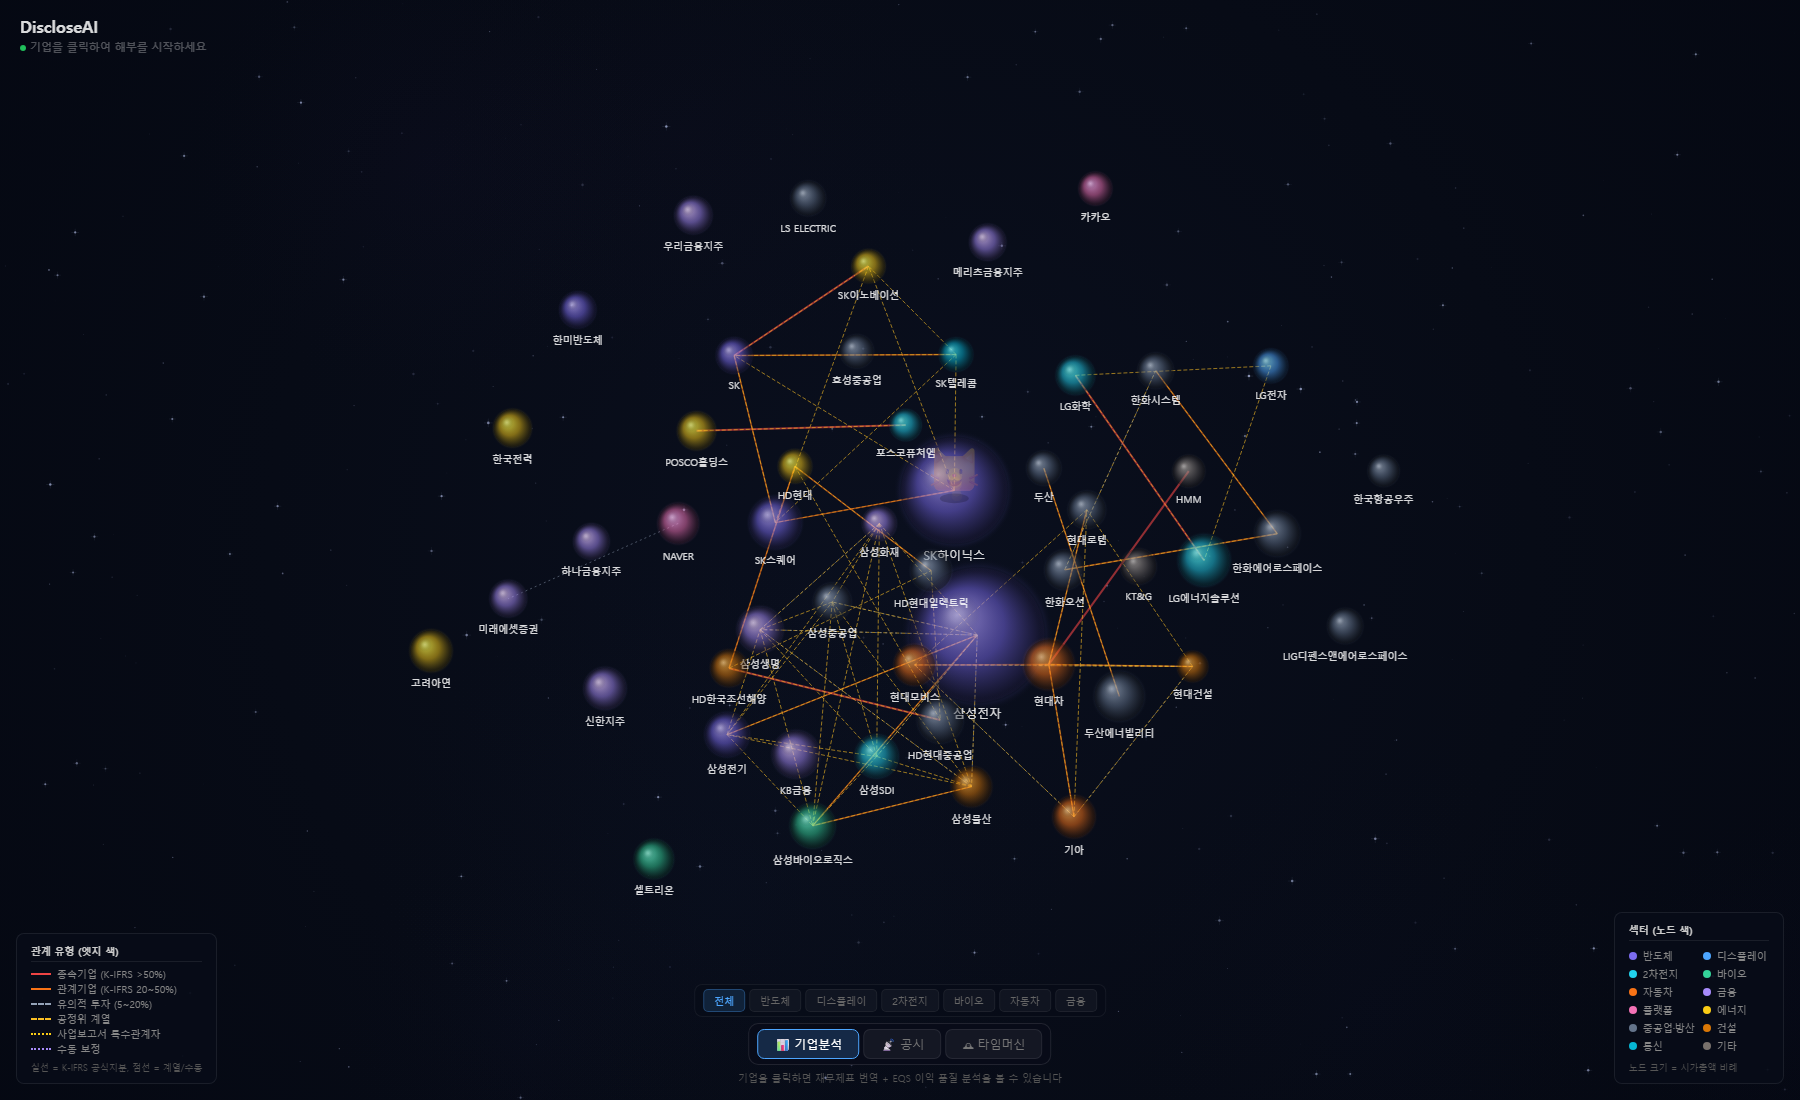
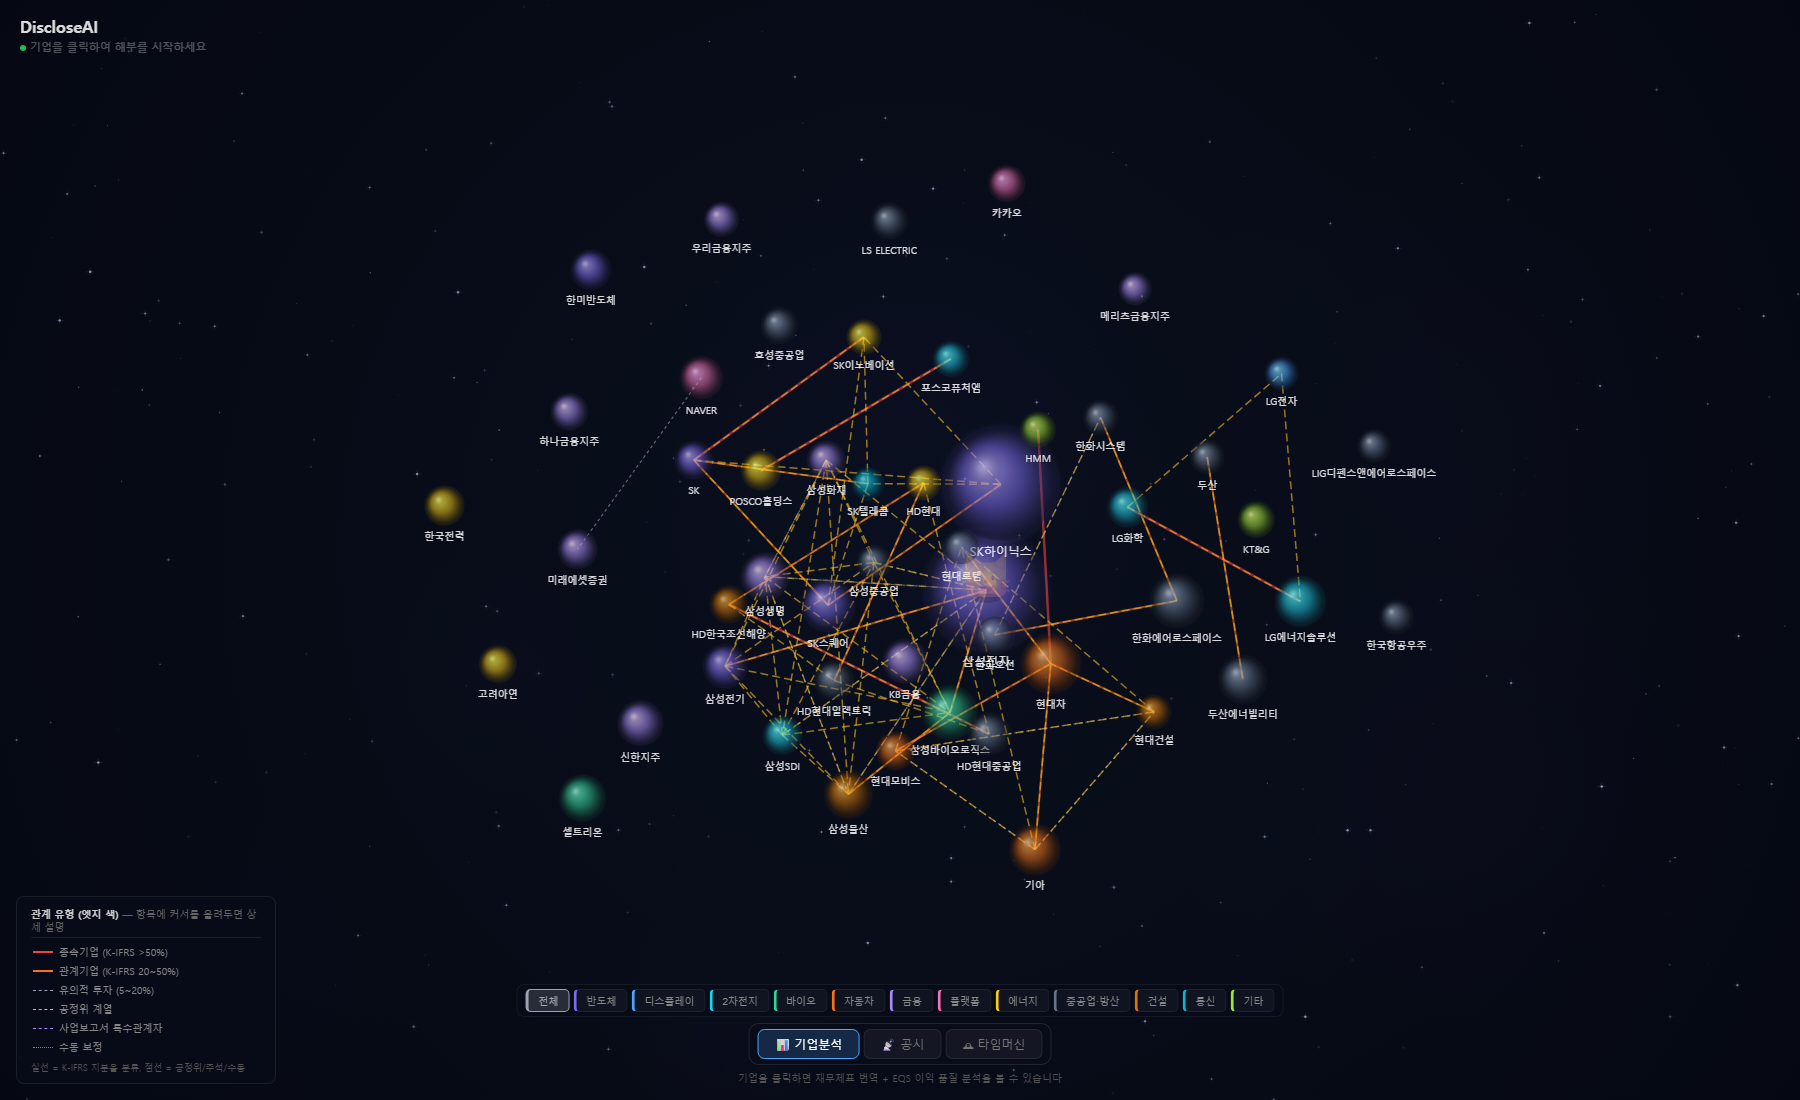
feat(viewer): UI iteration — 필터 색띠 + K-IFRS 툴팁 + 엣지 구분 강화
4가지 보완 적용:

1. 섹터 필터 탭 (12개) + 색띠 통합
   - .hud-sub 버튼을 sectors 사전 순회로 자동 생성 (전체 + 12섹터)
   - 각 버튼에 border-left 3px 색띠 + 활성 시 color-mix 반투명 배경
   - 우측 하단 .legend-sector 블록·CSS 완전 제거 → 필터 UI에 범례 통합

2. "기타" 섹터 색 변경: #78716c (갈회색) → #a3e635 (라임)
   이유: 중공업·방산 #64748b 블루그레이와 구분 선명

3. .legend-edge 항목별 hover 툴팁 (CSS 순수)
   - data-tooltip 속성 + :hover::after pseudo
   - K-IFRS 1024·1028·1109·1110 기준서 번호 + 자본시장법 §147 + 공정거래법 §2 근거 포함
   - 커서만 올려도 동작 (JS 불필요)

4. EDGE_STYLES 재조정 (6종 시각 구분 강화)
   - subsidiary: 2.0 → 2.5px (강조)
   - associate:  1.5 → 2.0px (실선 강조)
   - investment: [2,3] → [3,3] + 1.2px
   - ftc_group:  [4,2] → [8,4] (긴 대시로 차별)
   - dart_filing: #facc15 노랑 → #a78bfa 보라 (노랑↔노랑 충돌 해소)
   - manual:     #a78bfa 보라 → #ec4899 핑크

viewer/CLAUDE.md 스타일 표·sectors·툴팁 섹션 동기화.
테스트 116/116 통과. Playwright QA — 페이지 에러 0, 툴팁 hover 정상 노출.

diff --git a/modules/relation/viewer/index.html b/modules/relation/viewer/index.html
@@ -24,10 +24,10 @@ canvas{display:block}
 .hud-modes button.on[data-mode="analyze"]{background:rgba(77,166,255,0.2)}
 .hud-modes button.on[data-mode="disclosure"]{background:rgba(251,191,36,0.2);border-color:#fbbf24}
 .hud-modes button.on[data-mode="timemachine"]{background:rgba(124,108,240,0.2);border-color:#7c6cf0}
-.hud-sub{display:flex;gap:4px;background:rgba(8,12,24,0.92);border:1px solid rgba(255,255,255,0.06);border-radius:8px;padding:4px 8px;transition:opacity 0.3s}
-.hud-sub button{background:rgba(255,255,255,0.04);border:1px solid rgba(255,255,255,0.06);color:#666;padding:4px 10px;border-radius:5px;cursor:pointer;font-size:10px;transition:all 0.2s}
-.hud-sub button:hover{color:#aaa}
-.hud-sub button.on{background:rgba(77,166,255,0.15);border-color:rgba(77,166,255,0.3);color:#4da6ff}
+.hud-sub{display:flex;gap:4px;background:rgba(8,12,24,0.92);border:1px solid rgba(255,255,255,0.06);border-radius:8px;padding:4px 8px;transition:opacity 0.3s;flex-wrap:wrap;max-width:92vw;justify-content:center}
+.hud-sub button{background:rgba(255,255,255,0.04);border:1px solid rgba(255,255,255,0.06);color:#888;padding:4px 10px;border-radius:5px;cursor:pointer;font-size:10px;transition:all 0.2s;border-left:3px solid var(--sc,transparent)}
+.hud-sub button:hover{color:#ddd;background:rgba(255,255,255,0.08)}
+.hud-sub button.on{background:color-mix(in srgb, var(--sc, #4da6ff) 22%, transparent);border-color:var(--sc, #4da6ff);color:var(--sc, #4da6ff)}
 .mode-hint{font-size:10px;color:#555;text-align:center}
 
 /* Panel */
@@ -95,14 +95,27 @@ canvas{display:block}
 .title h1{font-size:16px;font-weight:600;color:rgba(255,255,255,0.85)}
 .title p{font-size:11px;color:rgba(255,255,255,0.3);margin-top:2px}
 .title .live{display:inline-block;width:6px;height:6px;background:#22c55e;border-radius:50%;margin-right:4px;animation:pulse 2s infinite}
-.legend{position:fixed;z-index:50;background:rgba(8,12,24,0.92);border:1px solid rgba(255,255,255,0.08);border-radius:8px;padding:10px 14px;font-size:10px;color:#888;max-width:220px}
+.legend{position:fixed;z-index:50;background:rgba(8,12,24,0.92);border:1px solid rgba(255,255,255,0.08);border-radius:8px;padding:10px 14px;font-size:10px;color:#888;max-width:260px}
 .legend-title{font-size:10px;font-weight:600;color:#ccc;margin-bottom:6px;padding-bottom:4px;border-bottom:1px solid rgba(255,255,255,0.08)}
-.legend-sector{bottom:16px;right:16px}
 .legend-edge{bottom:16px;left:16px}
 .legend-item{display:flex;align-items:center;gap:6px;margin:3px 0;line-height:1.2}
-.legend-dot{width:8px;height:8px;border-radius:50%;flex:0 0 8px}
 .legend-line{width:20px;height:0;flex:0 0 20px;border-top-width:2px;border-top-style:solid}
-.legend-grid{display:grid;grid-template-columns:1fr 1fr;column-gap:8px}
+
+/* 엣지 범례 hover 툴팁 (K-IFRS·공정거래법·자본시장법 근거) */
+.legend-edge .legend-item{position:relative;cursor:help;padding:2px 2px;border-radius:4px;transition:background 0.15s}
+.legend-edge .legend-item:hover{background:rgba(255,255,255,0.06)}
+.legend-edge .legend-item:hover::after{
+  content:attr(data-tooltip);
+  position:absolute;left:calc(100% + 10px);bottom:-4px;
+  width:300px;padding:10px 12px;
+  background:rgba(8,12,24,0.98);
+  border:1px solid rgba(251,191,36,0.4);
+  border-radius:6px;
+  font-size:11px;color:#e0e0e0;line-height:1.6;
+  z-index:200;pointer-events:none;
+  white-space:normal;text-align:left;
+  box-shadow:0 4px 20px rgba(0,0,0,0.5);
+}
 
 /* Disclosure panel */
 .disc-impact{padding:6px 10px;border-radius:6px;margin-bottom:6px;font-size:12px;display:flex;justify-content:space-between;align-items:center}
@@ -137,46 +150,26 @@ canvas{display:block}
   <div class="mode-hint" id="modeHint">기업을 클릭하면 재무제표와 EQS 분석을 볼 수 있습니다</div>
 </div>
 
-<!-- 우측 하단: 섹터(노드 색) 범례 -->
-<div class="legend legend-sector">
-  <div class="legend-title">섹터 (노드 색)</div>
-  <div class="legend-grid">
-    <div class="legend-item"><div class="legend-dot" style="background:#7c6cf0"></div>반도체</div>
-    <div class="legend-item"><div class="legend-dot" style="background:#4da6ff"></div>디스플레이</div>
-    <div class="legend-item"><div class="legend-dot" style="background:#22d3ee"></div>2차전지</div>
-    <div class="legend-item"><div class="legend-dot" style="background:#34d399"></div>바이오</div>
-    <div class="legend-item"><div class="legend-dot" style="background:#f97316"></div>자동차</div>
-    <div class="legend-item"><div class="legend-dot" style="background:#a78bfa"></div>금융</div>
-    <div class="legend-item"><div class="legend-dot" style="background:#f472b6"></div>플랫폼</div>
-    <div class="legend-item"><div class="legend-dot" style="background:#facc15"></div>에너지</div>
-    <div class="legend-item"><div class="legend-dot" style="background:#64748b"></div>중공업·방산</div>
-    <div class="legend-item"><div class="legend-dot" style="background:#d97706"></div>건설</div>
-    <div class="legend-item"><div class="legend-dot" style="background:#06b6d4"></div>통신</div>
-    <div class="legend-item"><div class="legend-dot" style="background:#78716c"></div>기타</div>
-  </div>
-  <div style="margin-top:6px;font-size:9px;color:#555">노드 크기 = 시가총액 비례</div>
-</div>
-
-<!-- 좌측 하단: 관계 유형(엣지 색) 범례 -->
+<!-- 좌측 하단: 관계 유형(엣지 색) 범례 — 각 항목 hover 시 K-IFRS·공정거래법 근거 툴팁 -->
 <div class="legend legend-edge">
-  <div class="legend-title">관계 유형 (엣지 색)</div>
-  <div class="legend-item"><span class="legend-line" style="border-color:#ef4444;border-top-width:2.5px"></span>종속기업 (K-IFRS &gt;50%)</div>
-  <div class="legend-item"><span class="legend-line" style="border-color:#f97316;border-top-width:2px"></span>관계기업 (K-IFRS 20~50%)</div>
-  <div class="legend-item"><span class="legend-line" style="border-color:#94a3b8;border-top-style:dashed"></span>유의적 투자 (5~20%)</div>
-  <div class="legend-item"><span class="legend-line" style="border-color:#fbbf24;border-top-style:dashed"></span>공정위 계열</div>
-  <div class="legend-item"><span class="legend-line" style="border-color:#facc15;border-top-style:dotted"></span>사업보고서 특수관계자</div>
-  <div class="legend-item"><span class="legend-line" style="border-color:#a78bfa;border-top-style:dotted"></span>수동 보정</div>
-  <div style="margin-top:6px;font-size:9px;color:#555">실선 = K-IFRS 공식지분, 점선 = 계열/수동</div>
+  <div class="legend-title">관계 유형 (엣지 색) <span style="font-weight:400;color:#666">— 항목에 커서를 올려두면 상세 설명</span></div>
+  <div class="legend-item" data-tooltip="K-IFRS 1110 &#39;연결재무제표&#39; 기준. 의결권 50% 초과 보유 시 지배력이 인정되어 지배기업-종속기업 관계가 성립합니다. 지배기업은 종속기업의 자산·부채·손익을 합산한 연결재무제표를 작성할 의무를 집니다."><span class="legend-line" style="border-color:#ef4444;border-top-width:2.5px"></span>종속기업 (K-IFRS &gt;50%)</div>
+  <div class="legend-item" data-tooltip="K-IFRS 1028 &#39;관계기업과 공동기업에 대한 투자&#39; 기준. 의결권 20~50% 보유 시 유의적 영향력(significant influence)이 추정되어 관계기업으로 분류됩니다. 지분법(equity method)을 적용하여 피투자기업 순이익 중 지분만큼을 투자자의 손익에 반영합니다."><span class="legend-line" style="border-color:#f97316;border-top-width:2px"></span>관계기업 (K-IFRS 20~50%)</div>
+  <div class="legend-item" data-tooltip="자본시장법 제147조 &#39;주식등의 대량보유상황 보고&#39; 기준. 상장주식 5% 이상 취득 시 5영업일 이내 공시 의무(5% rule). K-IFRS 1109상 금융자산으로 공정가치 측정하며, 지배·유의적 영향력 없는 지분투자로 분류됩니다."><span class="legend-line" style="border-color:#94a3b8;border-top-style:dashed;border-top-width:1.2px"></span>유의적 투자 (5~20%)</div>
+  <div class="legend-item" data-tooltip="공정거래법 제2조 제11호 &#39;기업집단&#39; 정의 및 동법 시행령. 공정거래위원회가 매년 5월 지정·공시하는 &#39;공시대상기업집단&#39;(자산총액 5조원 이상)의 소속회사 간 관계. 동일인이 사실상 지배하는 기업 집합으로, K-IFRS 특수관계자 정의보다 광범위합니다."><span class="legend-line" style="border-color:#fbbf24;border-top-style:dashed;border-top-width:1.5px"></span>공정위 계열</div>
+  <div class="legend-item" data-tooltip="K-IFRS 1024 &#39;특수관계자 공시&#39; 기준. 사업보고서 주석에 공시된 지배·종속·관계·공동기업 및 동일인 지배 하 형제회사 등. 지분율로는 포착되지 않지만 실질 지배력·영향력이 인정되는 관계까지 포함하여 공정위 미지정 독립기업의 실질 관계를 보강합니다."><span class="legend-line" style="border-color:#a78bfa;border-top-style:dashed;border-top-width:1.2px"></span>사업보고서 특수관계자</div>
+  <div class="legend-item" data-tooltip="공개 DB(DART·공정거래위원회)에 반영되지 않은 상호 관계 — CPA 팀의 실사·감사 정보 또는 알려진 인적 지배 관계 기반 수동 보정. 향후 공시에 반영되면 자동 소스(K-IFRS/공정위)로 대체됩니다."><span class="legend-line" style="border-color:#ec4899;border-top-style:dotted;border-top-width:1px"></span>수동 보정</div>
+  <div style="margin-top:6px;font-size:9px;color:#555">실선 = K-IFRS 지분율 분류, 점선 = 공정위/주석/수동</div>
 </div>
 
 <script>
 const c=document.getElementById('c'),x=c.getContext('2d');let W,H;function resize(){W=c.width=innerWidth;H=c.height=innerHeight}resize();onresize=resize;
 
 // ===== DATA =====
-const sectors={'반도체':{color:'#7c6cf0',cx:-0.25,cy:-0.2},'디스플레이':{color:'#4da6ff',cx:0.25,cy:-0.25},'2차전지':{color:'#22d3ee',cx:0.3,cy:0.1},'바이오':{color:'#34d399',cx:-0.3,cy:0.2},'자동차':{color:'#f97316',cx:0,cy:0.3},'금융':{color:'#a78bfa',cx:-0.15,cy:-0.35},'플랫폼':{color:'#f472b6',cx:0.2,cy:-0.1},'에너지':{color:'#facc15',cx:-0.35,cy:0},'중공업·방산':{color:'#64748b',cx:0.35,cy:-0.1},'건설':{color:'#d97706',cx:0.1,cy:0.35},'통신':{color:'#06b6d4',cx:-0.2,cy:0.35},'기타':{color:'#78716c',cx:0,cy:0}};
+const sectors={'반도체':{color:'#7c6cf0',cx:-0.25,cy:-0.2},'디스플레이':{color:'#4da6ff',cx:0.25,cy:-0.25},'2차전지':{color:'#22d3ee',cx:0.3,cy:0.1},'바이오':{color:'#34d399',cx:-0.3,cy:0.2},'자동차':{color:'#f97316',cx:0,cy:0.3},'금융':{color:'#a78bfa',cx:-0.15,cy:-0.35},'플랫폼':{color:'#f472b6',cx:0.2,cy:-0.1},'에너지':{color:'#facc15',cx:-0.35,cy:0},'중공업·방산':{color:'#64748b',cx:0.35,cy:-0.1},'건설':{color:'#d97706',cx:0.1,cy:0.35},'통신':{color:'#06b6d4',cx:-0.2,cy:0.35},'기타':{color:'#a3e635',cx:0,cy:0}};
 
-// === relation_type별 엣지 스타일 (Phase 2f) ===
-const EDGE_STYLES={subsidiary:{color:'#ef4444',width:2.0,dash:[]},associate:{color:'#f97316',width:1.5,dash:[]},investment:{color:'#94a3b8',width:0.8,dash:[2,3]},ftc_group:{color:'#fbbf24',width:1.0,dash:[4,2]},dart_filing:{color:'#facc15',width:1.0,dash:[6,2]},manual:{color:'#a78bfa',width:0.8,dash:[2,2]}};
+// === relation_type별 엣지 스타일 (Phase 2f + UI 개선 iteration 2026-04-20) ===
+const EDGE_STYLES={subsidiary:{color:'#ef4444',width:2.5,dash:[]},associate:{color:'#f97316',width:2.0,dash:[]},investment:{color:'#94a3b8',width:1.2,dash:[3,3]},ftc_group:{color:'#fbbf24',width:1.5,dash:[8,4]},dart_filing:{color:'#a78bfa',width:1.2,dash:[5,3]},manual:{color:'#ec4899',width:1.0,dash:[2,3]}};
 const EDGE_LABELS={subsidiary:'종속기업(>50%)',associate:'관계기업(20~50%)',investment:'유의적투자(5~20%)',ftc_group:'공정위 계열',dart_filing:'사업보고서 특수관계자',manual:'수동 보정'};
 
 // Phase 2f: 하드코딩 raw 배열을 fetch로 대체. 원본 코드는 하단 RAW_HARDCODED_LEGACY 주석 참조.
@@ -249,7 +242,14 @@ function setMode(mode, btn) {
   const sub = document.getElementById('hudSub');
   const hint = document.getElementById('modeHint');
   if (mode === 'analyze') {
-    sub.innerHTML = `<button class="on" onclick="filter('all',this)">전체</button><button onclick="filter('반도체',this)">반도체</button><button onclick="filter('디스플레이',this)">디스플레이</button><button onclick="filter('2차전지',this)">2차전지</button><button onclick="filter('바이오',this)">바이오</button><button onclick="filter('자동차',this)">자동차</button><button onclick="filter('금융',this)">금융</button>`;
+    // 섹터 필터 버튼 — sectors 사전에서 자동 생성 (색띠 inline). 섹터 추가 시 자동 반영.
+    const sectorOrder = ['반도체','디스플레이','2차전지','바이오','자동차','금융','플랫폼','에너지','중공업·방산','건설','통신','기타'];
+    const allBtn = `<button class="on" style="--sc:#9ca3af" onclick="filter('all',this)">전체</button>`;
+    const secBtns = sectorOrder
+      .filter(s => sectors[s])
+      .map(s => `<button style="--sc:${sectors[s].color}" onclick="filter('${s}',this)">${s}</button>`)
+      .join('');
+    sub.innerHTML = allBtn + secBtns;
     hint.textContent = '기업을 클릭하면 재무제표 번역 + EQS 이익 품질 분석을 볼 수 있습니다';
     flt = 'all';
   } else if (mode === 'disclosure') {

diff --git a/modules/relation/viewer/CLAUDE.md b/modules/relation/viewer/CLAUDE.md
@@ -31,14 +31,20 @@
 
 ## relation_type별 스타일 표 (draw 함수 분기)
 
-| relation_type | 색상 | 선 스타일 | 두께 | K-IFRS 의미 |
+**갱신 2026-04-20**: 기존 ftc_group·dart_filing·associate 세 종 구분이 약해 색·두께·대시 재조정.
+
+| relation_type | 색상 | 선 스타일 | 두께 | K-IFRS·공정거래법 의미 |
 |---|---|---|---|---|
-| `subsidiary` | `#ef4444` 진한 빨강 | 실선 | 2px | 지배기업-종속기업 (> 50%) |
-| `associate` | `#f97316` 주황 | 실선 | 1.5px | 관계기업 (20~50%) |
-| `investment` | `#94a3b8` 회색 | 점선 `[2,3]` | 0.8px | 유의적 투자 (5~20%) |
-| `ftc_group` | `#fbbf24` 노랑 | 점선 `[4,2]` | 1px | 공정위 공식 계열 |
-| `dart_filing` | `#facc15` 밝은 노랑 | 점선 `[6,2]` | 1px | 사업보고서 주석 (공정위 미포함) |
-| `manual` | `#a78bfa` 보라 | 점선 `[2,2]` | 0.8px | 수동 보정 |
+| `subsidiary` | `#ef4444` 진한 빨강 | 실선 | **2.5px** | K-IFRS 1110 지배기업-종속기업 (> 50%) — 연결재무제표 작성 |
+| `associate` | `#f97316` 주황 | 실선 | **2.0px** | K-IFRS 1028 관계기업 (20~50%) — 지분법 적용 |
+| `investment` | `#94a3b8` 회색 | 점선 `[3,3]` | 1.2px | 자본시장법 §147 5% 대량보유 (5~20%) — K-IFRS 1109 공정가치측정 |
+| `ftc_group` | `#fbbf24` 노랑 | 긴 대시 `[8,4]` | 1.5px | 공정거래법 §2 공시대상기업집단 소속회사 |
+| `dart_filing` | **`#a78bfa`** 보라 | 대시 `[5,3]` | 1.2px | K-IFRS 1024 특수관계자 (공정위 미포함 기업 한정) |
+| `manual` | **`#ec4899`** 핑크 | 점선 `[2,3]` | 1.0px | 공개 DB 미반영 수동 보정 |
+
+**색 차별화 전략**:
+- 실선 (K-IFRS 공식 지분): 빨강(지배) → 주황(관계)
+- 점선: 회색(투자), 노랑(공정위), 보라(주석), 핑크(수동) — 4색으로 각각 구별
 
 **코드 형태 (draw 엣지 루프 내)**:
 ```js
@@ -51,6 +57,16 @@ edges.forEach(e => {
 });
 x.setLineDash([]);  // reset
 ```
+
+## 섹터 필터 + 노드 색 통합 (UI 개선 iteration 2026-04-20)
+
+- 우측 하단 `.legend-sector` **제거**. 섹터-색 매핑은 중앙 하단 `.hud-sub` 필터 버튼에 **색띠(border-left 3px) + 활성 시 배경 투명 색상**으로 통합.
+- setMode('analyze')에서 `sectors` 사전의 모든 키를 순회하여 12개 버튼을 자동 생성 (sectors에 신규 추가 시 자동 반영).
+- "기타" 색상 `#78716c` → `#a3e635` 라임 변경 (중공업·방산 `#64748b` 블루그레이와 구분 선명).
+
+## 엣지 범례 hover 툴팁
+
+`.legend-edge .legend-item[data-tooltip]` + CSS `::after` pseudo-element로 호버 팝업. JS 불필요. 각 툴팁은 K-IFRS 기준서 번호(1024·1028·1109·1110)·공정거래법 제2조·자본시장법 제147조 등 공신력 있는 근거 포함.
 
 ## sectors 확장 (기존 8개 + 4개)
 
@@ -71,7 +87,7 @@ const sectors = {
   '중공업·방산': { color: '#64748b', cx:  0.35, cy: -0.1 },  // 한화에어로·HD현대중공업·두산·한화시스템 등
   '건설':       { color: '#d97706', cx:  0.10, cy:  0.35 }, // 현대건설·HD한국조선해양
   '통신':       { color: '#06b6d4', cx: -0.20, cy:  0.35 }, // SK텔레콤
-  '기타':       { color: '#78716c', cx:  0.00, cy:  0    }, // KT&G·HMM·한미반도체
+  '기타':       { color: '#a3e635', cx:  0.00, cy:  0    }, // KT&G·HMM·한미반도체 (라임, 2026-04-20 변경)
 };
 ```
 
